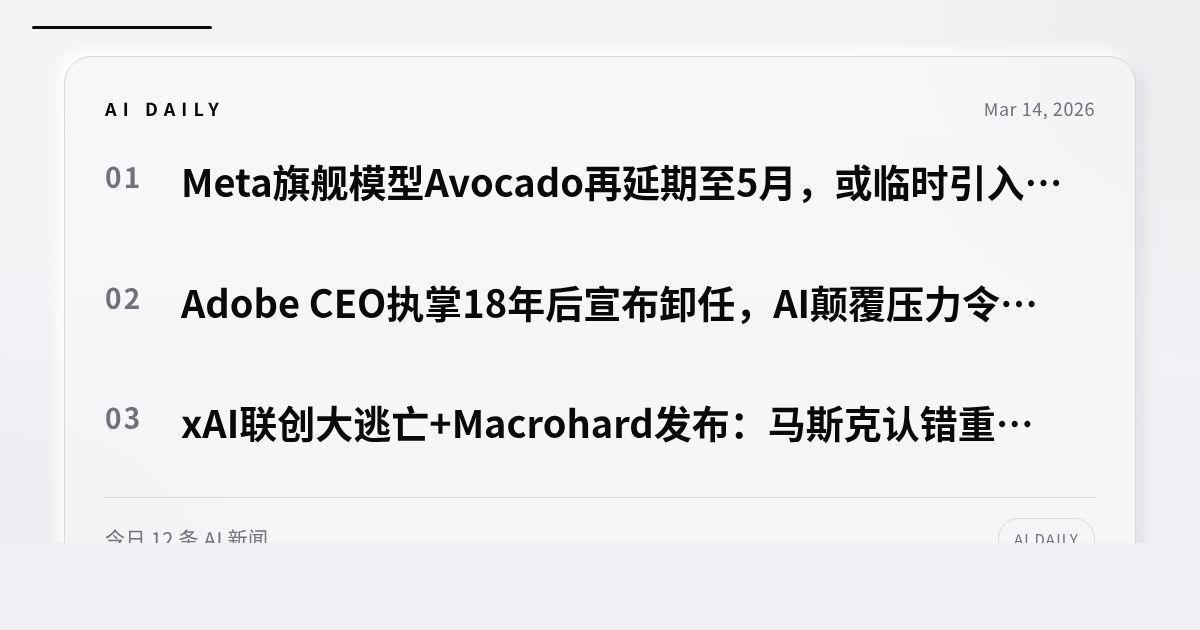
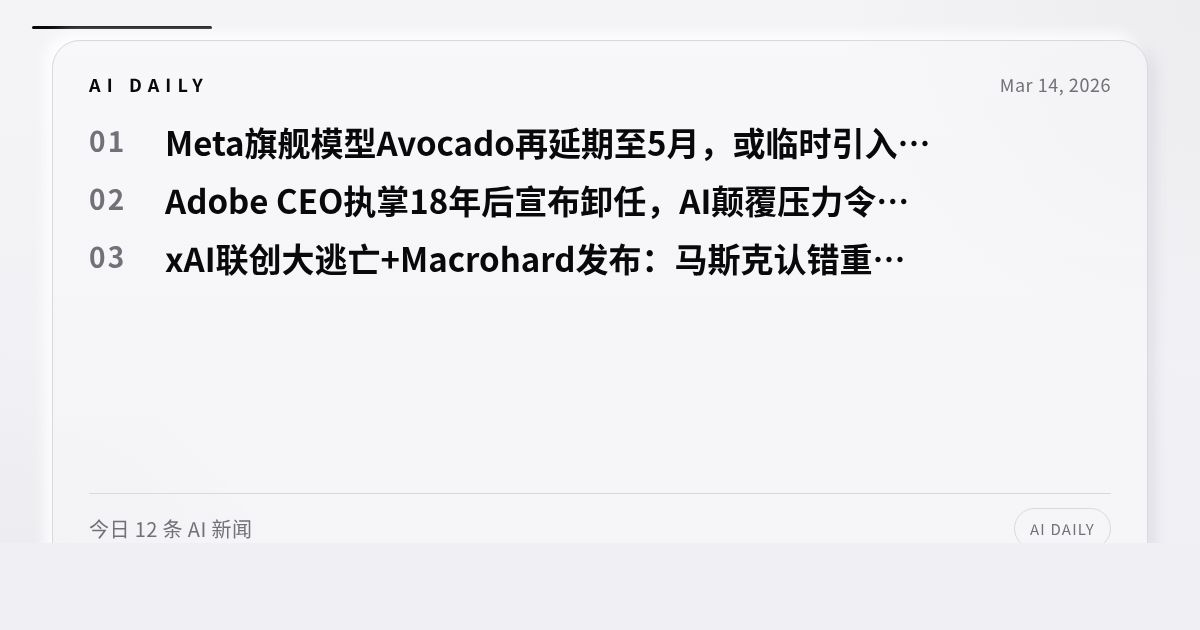
fix: og image layout - footer fully visible

diff --git a/og-template.html b/og-template.html
@@ -35,7 +35,7 @@
     .frame {
       position: relative;
       height: 100%;
-      padding: 56px 64px 42px;
+      padding: 40px 52px 50px;
       display: flex;
       flex-direction: column;
     }
@@ -44,7 +44,7 @@
       border: 1px solid #d8d8de;
       border-radius: 28px;
       background: rgba(255,255,255,0.34);
-      padding: 38px 40px 28px;
+      padding: 30px 36px 30px;
       display: flex;
       flex-direction: column;
       box-shadow: -7px -7px 14px rgba(255,255,255,0.9), 7px 7px 14px rgba(174,174,192,0.28);
@@ -53,7 +53,7 @@
       display: flex;
       justify-content: space-between;
       align-items: flex-start;
-      margin-bottom: 34px;
+      margin-bottom: 22px;
     }
     .brand {
       font-size: 18px;
@@ -68,8 +68,9 @@
     }
     .list {
       display: grid;
-      gap: 22px;
+      gap: 16px;
       flex: 1;
+      align-content: start;
       padding-top: 2px;
     }
     .item {
@@ -87,7 +88,7 @@
       padding-top: 4px;
     }
     .title {
-      font-size: 38px;
+      font-size: 33px;
       line-height: 1.28;
       font-weight: 700;
       color: #09090b;
@@ -99,7 +100,7 @@
       word-break: break-word;
     }
     .footer {
-      padding-top: 20px;
+      padding-top: 14px;
       border-top: 1px solid #d8d8de;
       display: flex;
       align-items: center;
